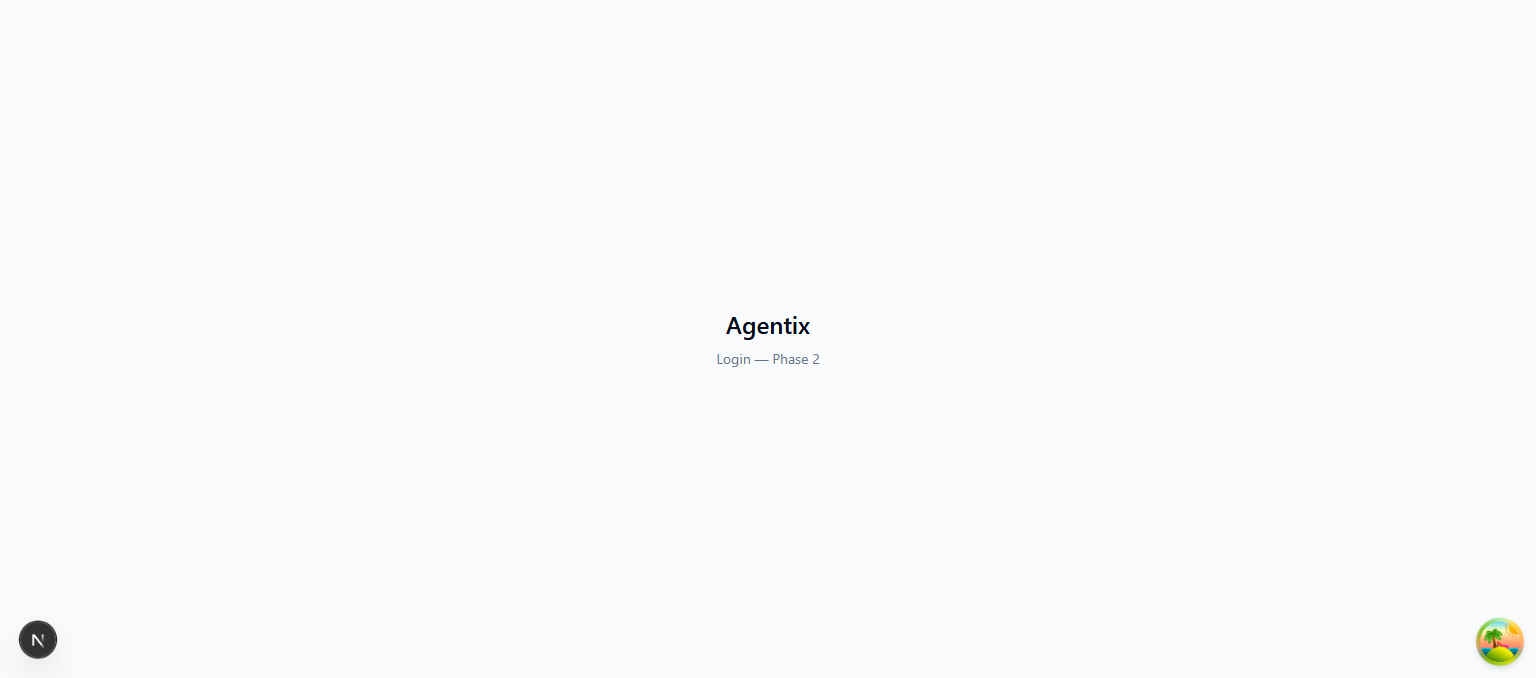
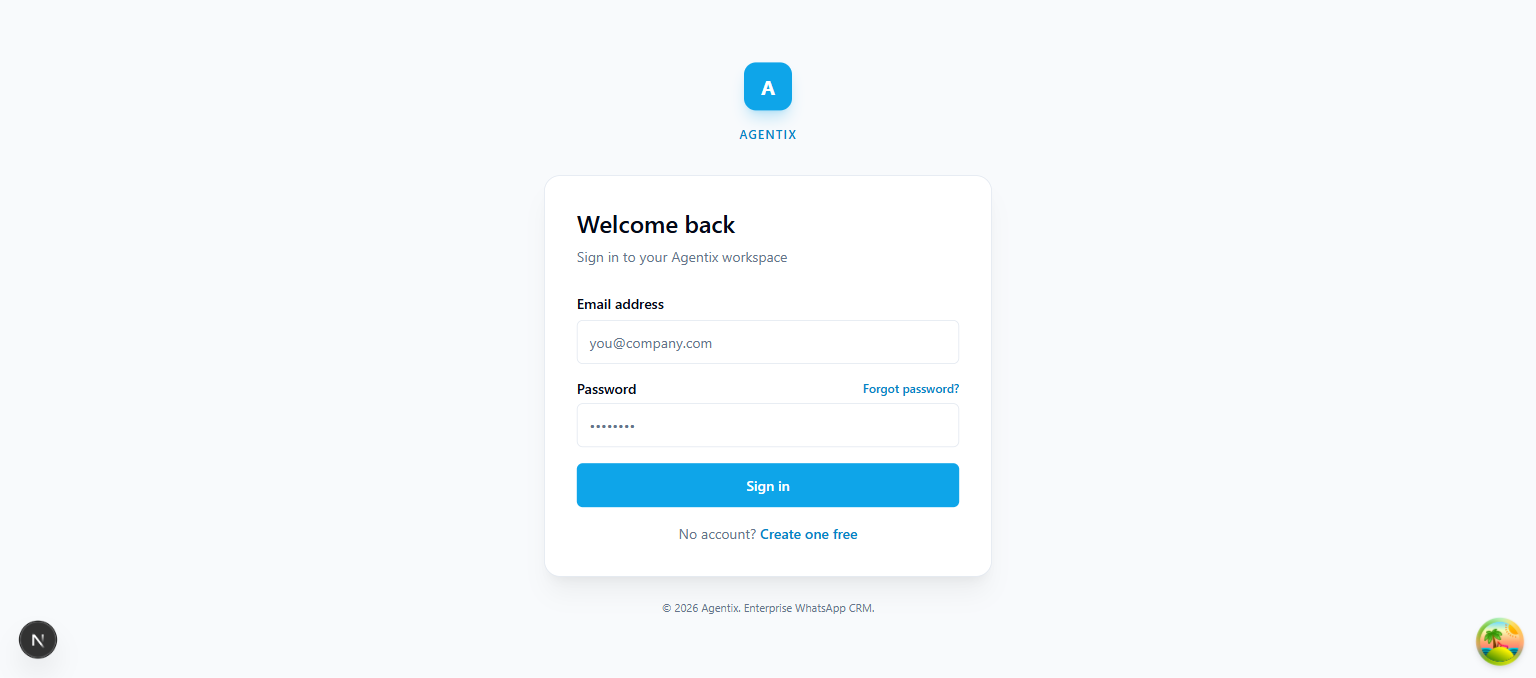
fix: replace Framer Motion in AuthCard with CSS animation (resolves JS parse error); Phase 2 fully verified

diff --git a/modules/auth/components/AuthCard.tsx b/modules/auth/components/AuthCard.tsx
@@ -1,6 +1,3 @@
-'use client';
-
-import { motion } from 'framer-motion';
 import { cn } from '@/lib/utils';
 
 interface AuthCardProps {
@@ -10,20 +7,10 @@ interface AuthCardProps {
   className?: string;
 }
 
-const cardVariant = {
-  initial: { opacity: 0, scale: 0.97, y: 10 },
-  animate: {
-    opacity: 1,
-    scale: 1,
-    y: 0,
-    transition: { duration: 0.35, ease: [0.25, 0.1, 0.25, 1] },
-  },
-};
-
 export function AuthCard({ children, title, subtitle, className }: AuthCardProps) {
   return (
     <div className="flex min-h-screen items-center justify-center bg-surface-secondary px-4 py-12">
-      <div className="w-full max-w-md">
+      <div className="w-full max-w-md animate-fade-in">
 
         {/* Brand */}
         <div className="mb-8 text-center">
@@ -36,10 +23,7 @@ export function AuthCard({ children, title, subtitle, className }: AuthCardProps
         </div>
 
         {/* Card */}
-        <motion.div
-          variants={cardVariant}
-          initial="initial"
-          animate="animate"
+        <div
           className={cn(
             'rounded-2xl border border-border bg-card p-8 shadow-xl shadow-black/5',
             className,
@@ -52,7 +36,7 @@ export function AuthCard({ children, title, subtitle, className }: AuthCardProps
             )}
           </div>
           {children}
-        </motion.div>
+        </div>
 
         {/* Footer */}
         <p className="mt-6 text-center text-caption text-muted-foreground">